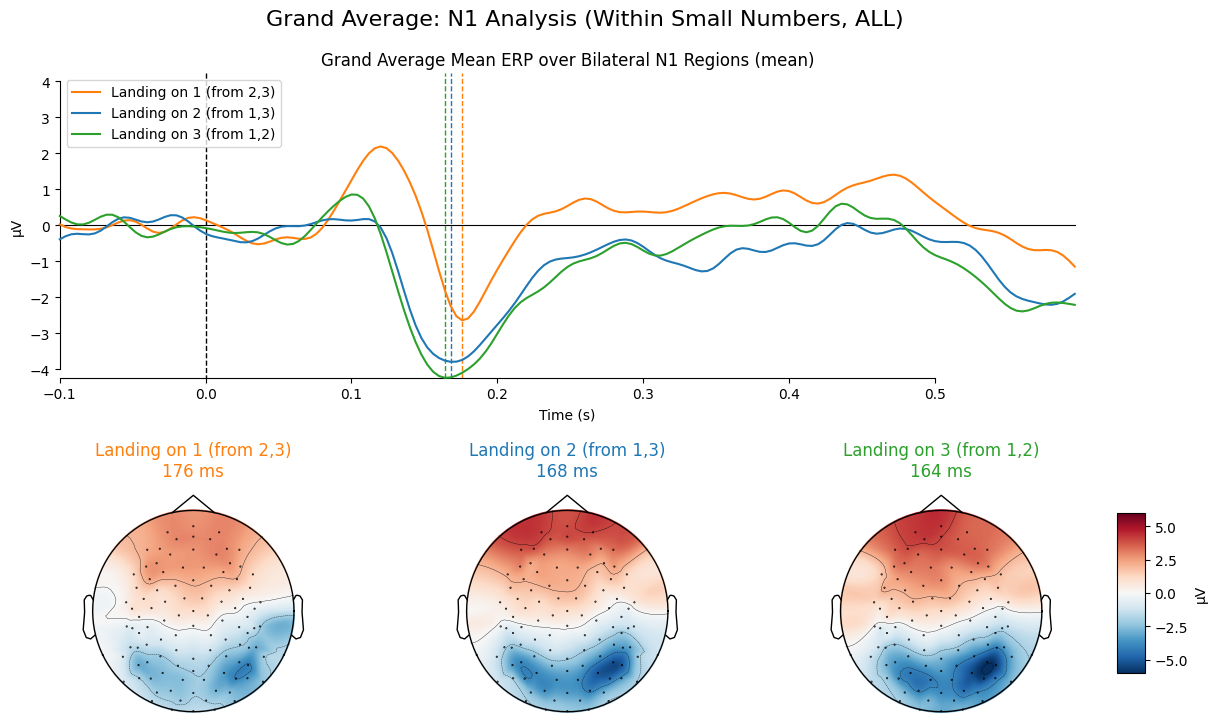
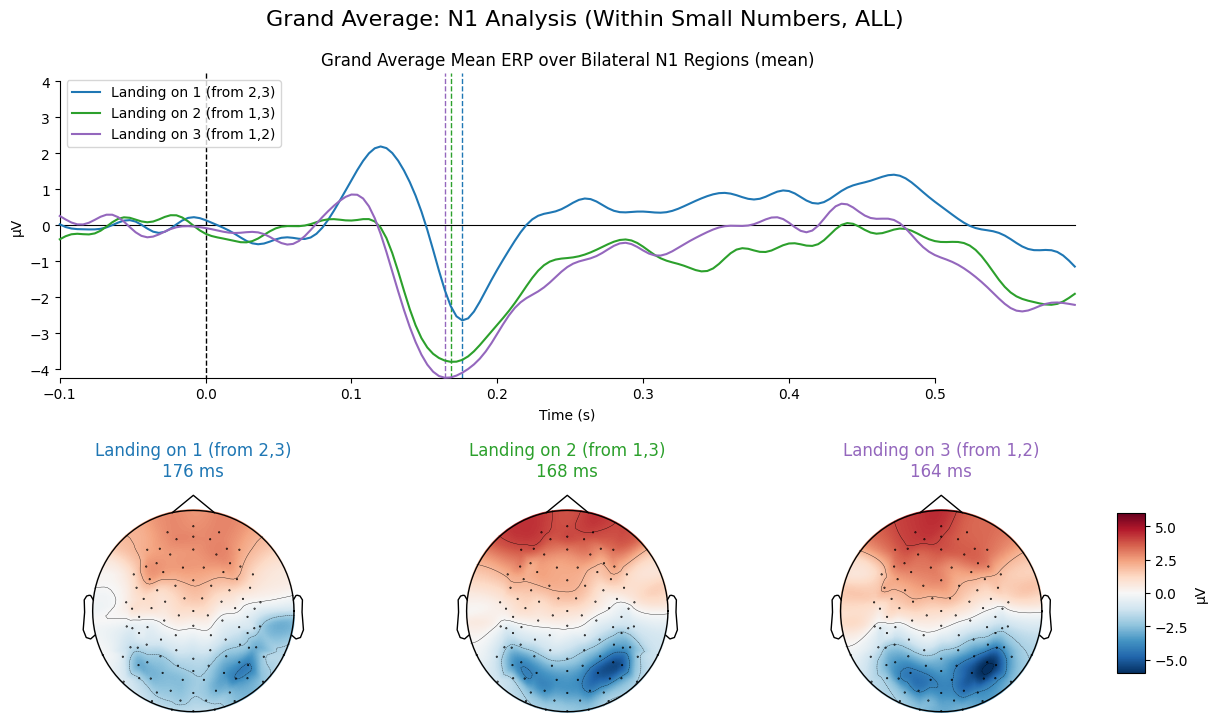
Standardize ALL plot colors and fix P1 peak detection

diff --git a/eeg_all/code/03_generate_p1_plot_landing_on_small_descending_all.py b/eeg_all/code/03_generate_p1_plot_landing_on_small_descending_all.py
@@ -75,7 +75,7 @@ def generate_p1_plots(subjects_to_process):
                 roi_evoked_data = evoked.get_data(picks=P1_ELECTRODES).mean(axis=0)
                 info = mne.create_info(['ROI_AVG'], evoked.info['sfreq'], ch_types='eeg')
                 roi_evoked = mne.EvokedArray(roi_evoked_data[np.newaxis, :], info, tmin=evoked.tmin)
-                _, peak_time = roi_evoked.get_peak(tmin=PEAK_TMIN, tmax=PEAK_TMAX, mode='pos')
+                _, peak_time = roi_evoked.get_peak(tmin=PEAK_TMIN, tmax=PEAK_TMAX, mode='abs')
                 peak_times[cond_name] = peak_time
 
             # --- Create the plot ---

diff --git a/eeg_all/code/03_generate_n1_plot_within_small_all.py b/eeg_all/code/03_generate_n1_plot_within_small_all.py
@@ -20,9 +20,9 @@ KEY_CONDITIONS_MAP = {
 
 # Define colors for plots
 CONDITION_COLORS = {
-    "Landing on 1 (from 2,3)": '#ff7f0e',  # Safety Orange
-    "Landing on 2 (from 1,3)": '#1f77b4',  # Muted Blue
-    "Landing on 3 (from 1,2)": '#2ca02c',  # Cooked Asparagus Green
+    "Landing on 1 (from 2,3)": '#1f77b4',  # Blue
+    "Landing on 2 (from 1,3)": '#2ca02c',  # Green
+    "Landing on 3 (from 1,2)": '#9467bd',  # Purple
 }
 
 # Electrodes of interest for N1 waveform (Bilateral)

diff --git a/eeg_all/code/03_generate_p1_plot_within_small_all.py b/eeg_all/code/03_generate_p1_plot_within_small_all.py
@@ -20,9 +20,9 @@ KEY_CONDITIONS_MAP = {
 
 # Define colors for plots
 CONDITION_COLORS = {
-    "Landing on 1 (from 2,3)": '#ff7f0e',  # Safety Orange
-    "Landing on 2 (from 1,3)": '#1f77b4',  # Muted Blue
-    "Landing on 3 (from 1,2)": '#2ca02c',  # Cooked Asparagus Green
+    "Landing on 1 (from 2,3)": '#1f77b4',  # Blue
+    "Landing on 2 (from 1,3)": '#2ca02c',  # Green
+    "Landing on 3 (from 1,2)": '#9467bd',  # Purple
 }
 
 # Electrodes of interest for P1 waveform (Oz area)
